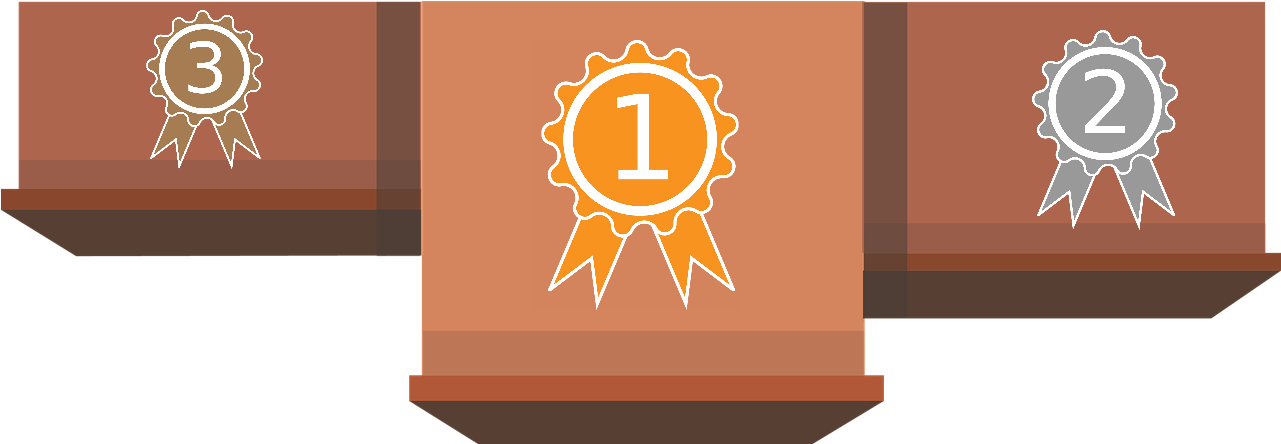
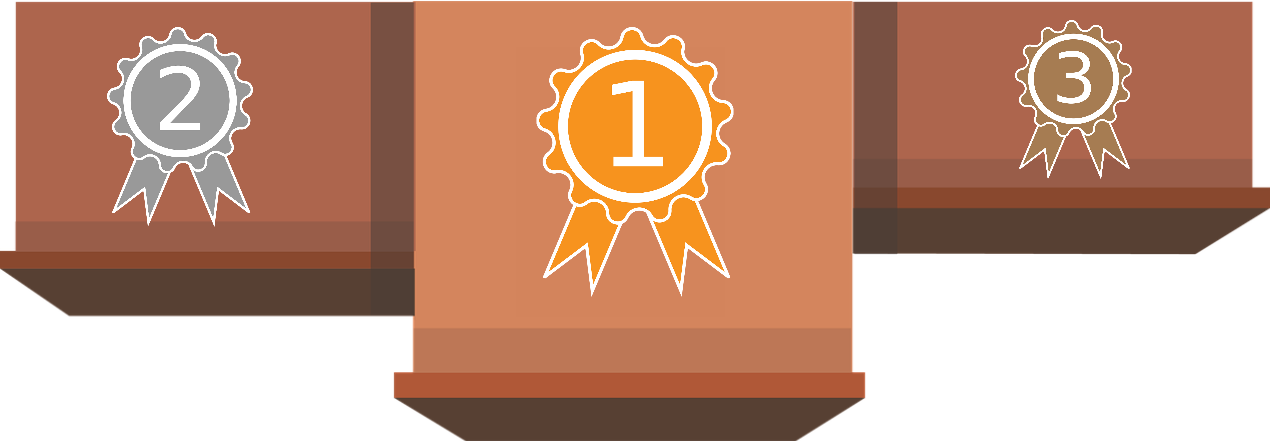
fixed the top left

diff --git a/src/routes/+page.svelte b/src/routes/+page.svelte
@@ -103,7 +103,7 @@
 
         in_data.get("filtered").forEach((element:any) => {
             if (check_type(element)){
-                l_num.set(element.NOC, (l_num.get(element.NOC) ?? 0) +1);
+                l_num.set(element.NOC, {num: (l_num.get(element.NOC) ?? 0) +1, coun: element.Team});
             }
 
             if (element.Age > 0 && element.Weight > 0 && element.Height > 0){
@@ -149,21 +149,26 @@
         let sort_abs :any[]= []
         let sort_rel:any[] = []
         keyset.forEach((element) => {
-            let num = l_num.get(element);
+            let num = l_num.get(element).num;
             let med = l_med.get(element) ?? 0;
             let rel = med / num;
 
-            sort_abs.push({num: med, nat: element});
-            sort_rel.push({num: rel, nat: element});
+            if (med > 0){
+                sort_abs.push({num: med, nat: element, coun: l_num.get(element).coun});
+                sort_rel.push({num: rel, nat: element, coun: l_num.get(element).coun});
+            }
         })
         sort_abs.sort((a,b) => b.num - a.num)
         sort_rel.sort((a,b) => b.num - a.num)
+       
 
-        top_l.set("best_rel", [sort_rel[0].nat, sort_rel[1].nat, sort_rel[2].nat])
-        top_l.set("best_abs", [sort_abs[0].nat, sort_abs[1].nat, sort_abs[2].nat])
+        console.log(sort_abs)
+
+        top_l.set("best_rel", [sort_rel[0], sort_rel[1], sort_rel[2]])
+        top_l.set("best_abs", [sort_abs[0], sort_abs[1], sort_abs[2]])
         let len = sort_abs.length - 1
-        top_l.set("worst_rel", [sort_rel[len - 0].nat, sort_rel[len - 1].nat, sort_rel[len - 2].nat])
-        top_l.set("worst_abs", [sort_abs[len - 0].nat, sort_abs[len - 1].nat, sort_abs[len - 2].nat])
+        top_l.set("worst_rel", [sort_rel[len - 0], sort_rel[len - 1], sort_rel[len - 2]])
+        top_l.set("worst_abs", [sort_abs[len - 0], sort_abs[len - 1], sort_abs[len - 2]])
 
 
 
@@ -519,7 +524,11 @@
         return res
     }
 
-    let top_l_list = ["best_abs", "best_rel", "worst_abs", "worst_rel"]
+    let top_l_map_list = ["best_abs", "best_rel", "worst_abs", "worst_rel"];
+    let top_l_pod_list = ["best_podium.png", "worst_podium.png"];
+    let top_l_x = [43, 12, 75];
+    let top_l_y = [[85, 71, 65], [35, 51, 59]];
+    
     
 </script>
 
@@ -672,23 +681,38 @@
     </div><!-- end left -->
     <div class="item2"><!-- topL -->
         {#each [1,2] as row}
-        <div style="height: 49%; width: 100%; padding: 3px; font-size: 17px; font-weight: bold; ">
-            <div class="heading" style="">
-                {#if row == 1}
-                Nations winning the most medals:
-                {:else}
-                Nations winning the least medals:
-                {/if}
-            </div>
-            <div class="top_pic" style="">
+            <div style="height: 49%; width: 100%; padding: 3px; font-size: 17px; font-weight: bold; ">
+                <div class="heading" style="">
+                    {#if row == 1}
+                    Nations winning the most medals:
+                    {:else}
+                    Nations winning the least medals:
+                    {/if}
+                </div>
                 {#each [1,2] as col}
-                    <div style="height: 3em;">
-                        
+                    <div class="top_pic" style="padding: 5px">
+                        <div style="height: 3em;">
+                            {#if col == 1}
+                            Total:
+                            {:else}
+                            Per Participant:
+                            {/if}
+                        </div>
+                        <div style="width: 99%; height: 80%; position: absolute;">
+                            <img class="podium{row}" src="images/{top_l_pod_list[row-1]}" style="width: 95%;" alt="medal" />
+                            {#each [0,1,2] as place}
+                            <div class="uistack tooltipped" style="position: absolute; left: {top_l_x[place]}%; bottom: {top_l_y[row-1][place]}%;"> 
+                                {filetered_data.get("top_l").get(top_l_map_list[((row-1)*2)+col-1])[place].nat ?? 0}
+                                <div class="tooltip tooltip-right" style="top: 1em; left: 1em;">
+                                    <img style="width: 2em; height: 1em;" src="images/flags/{(filetered_data.get("top_l").get(top_l_map_list[((row-1)*2)+col-1])[place].coun)}.png" alt="flag"/>
+                                    {filetered_data.get("top_l").get(top_l_map_list[((row-1)*2)+col-1])[place].coun ?? 0}
+                                </div>
+                            </div>
+                            {/each}
+                        </div>
                     </div>
-                    
                 {/each}
             </div>
-        </div>
         {/each}
 
 
@@ -1111,15 +1135,15 @@
         margin-right: 5%;
     }
 
-    .podium {
+    .podium1 {
         position: absolute;
-        bottom: 0.7em;
+        bottom: 2em;
         left: 0.45em;
     }
 
     .podium2 {
         position: absolute;
-        top: 2em;
+        top: -1em;
         left: 0.45em;
     }
 
